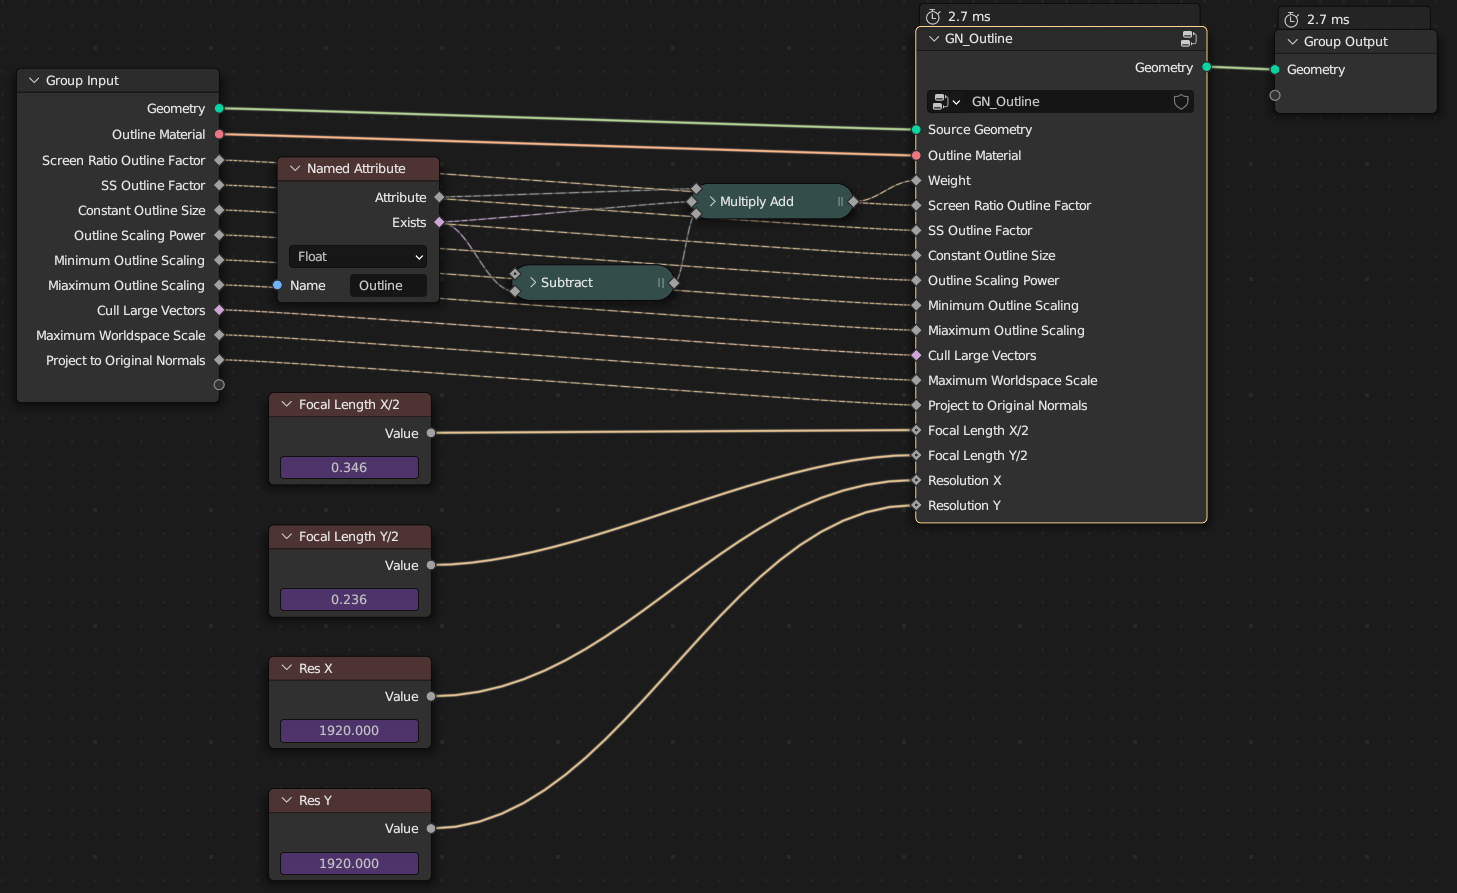
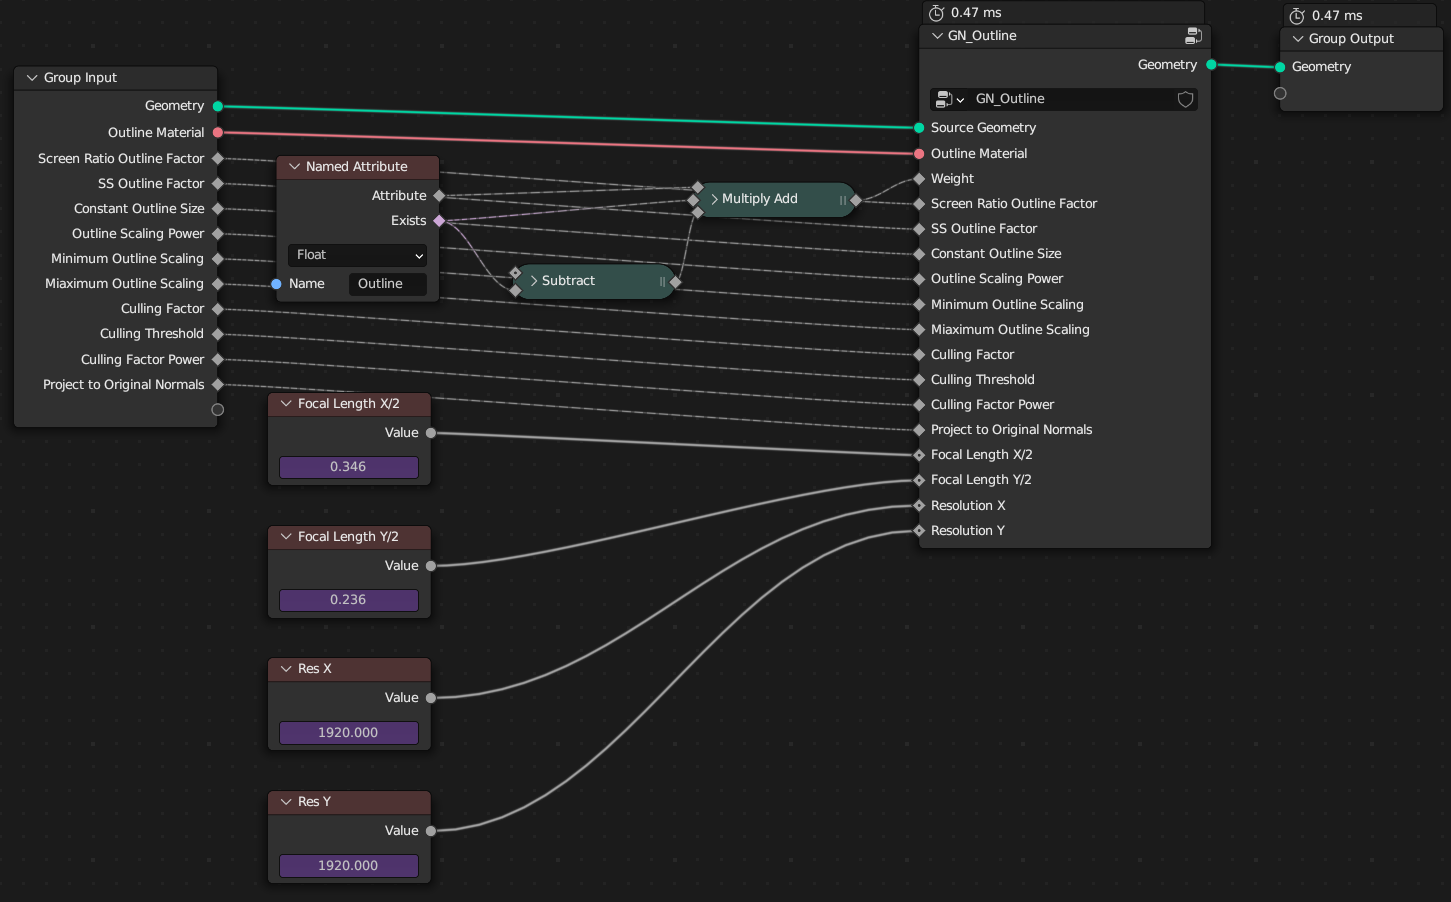
Better culling method

diff --git a/_posts/2023-7-10-GeonodeOutline3.6.md b/_posts/2023-7-10-GeonodeOutline3.6.md
@@ -64,7 +64,7 @@ With **Geometry Nodes**, rather than only being able to extrude the Inverted Hul
 <h5><i> Realtime Demo </i></h5>
 </center>
 ![Geonode Overview](/assets/geonode_outline/gifs/geonode_demo_gif.gif)
-<center><h5><i> The outline of every mesh can be controlled by changing the property of a single Geometry Node graph </i></h5></center>
+<center><h5><i> The outline of every mesh can be controlled by changing the property of a single Geometry Node graph (Note: the node group inputs here is an older version) </i></h5></center>
 
 ### The basic principle
 So the idea is to take our vertex normal vector, project it such that it is parallel to the near-plane/far-plane of the camera, then scale it by a factor such that it will be the length that we want it to be in screen space, and finally projecting it back to the original normal vector while preserving its screen space length. We then create the inverted hull mesh using these new vectors, rather than just the normal vectors in the traditional method.
@@ -118,14 +118,23 @@ Because we've projected our normal vectors to be parallel to the near/far plane,
 <center><h5><i> Inside of the VectorProjection vector group </i></h5></center>
 
 ### 4. Final Steps {#step_4}
-**4a.** We want to provide options for using and world space constant outlines and blending between that and screen space outlines, so we add the following nodes.
-![World Space Outline Option](/assets/geonode_outline/images/4_world_space_outline_3.6.png)
-**4b.** We make use of vertex weights to allow further user attenuation of the outlines. Also, the re-projection may cause some vectors to point inside of the mesh instead of out, so we perform a dot product check and invert the vectors. This still preserves the screen space size of our outlines.
-![Weight and inversion Check](/assets/geonode_outline/images/4_weight_inversion_check_3.6.png)
-**4c.** We may see weird artifacts when the reprojected vector is close to being parallel to the vector from the camera to the vertex, because the reprojected vector needs to be scaled to a large degree after step 2 to be parallel to the original normal vector. These artifacts will be noticable if they endup intersection another mesh, So we must attenuate these vectors. Luckly for us, where these vectors occur also happens to be there the inverted hull is not visible, so we can simply clamp its length with the following nodes. 
+**4a.** We may see weird artifacts when the reprojected vector is close to being parallel to the vector from the camera to the vertex, because the reprojected vector needs to be scaled to a large degree after step 2 to be parallel to the original normal vector. So we must attenuate these vectors. Luckly for us, where these vectors occur also happens to be there the inverted hull is not visible, so we can simply scale them down. 
+
+We can do so by:
+1. Use the dot product of the g Vector and original Normal vectors to determine which vectors we need to cull. The more parallel they are, 
+2. We do not care about direction, only parallel-ness, so we use the absolute value. This also makes the range of the values to be [0-1]
+3. We then invert the values, this makes it such that the closer a vector is to being parallel with the r vector, the closer it is to 0.
+4. Then use power to attenuate for non linear behavior
+5. Check if our vector from the previous step is greater than a given value, if false then change our attenuation value to 1 (do nothing). 
+6. Mix with culling factor and scale our vector from the previous step.
 
 ![Culling](/assets/geonode_outline/images/4_culling_3.6.png)
 <center><h5><i> Dot Product's input B is the g Vector, and B is the s Vector from 3 </i></h5></center>
+
+**4b.** We want to provide options for using and world space constant outlines and blending between that and screen space outlines, so we add the following nodes.
+![World Space Outline Option](/assets/geonode_outline/images/4_world_space_outline_3.6.png)
+**4c.** We make use of vertex weights to allow further user attenuation of the outlines. Also, the re-projection may cause some vectors to point inside of the mesh instead of out, so we perform a dot product check and invert the vectors. This still preserves the screen space size of our outlines.
+![Weight and inversion Check](/assets/geonode_outline/images/4_weight_inversion_check_3.6.png)
 **4d.** Extruding our Inverted Hull then just involves giving each vertex the offset that we calculated, flipping its normals, and setting an outline material.
 ![Done!](/assets/geonode_outline/images/4_finish.png)
 
